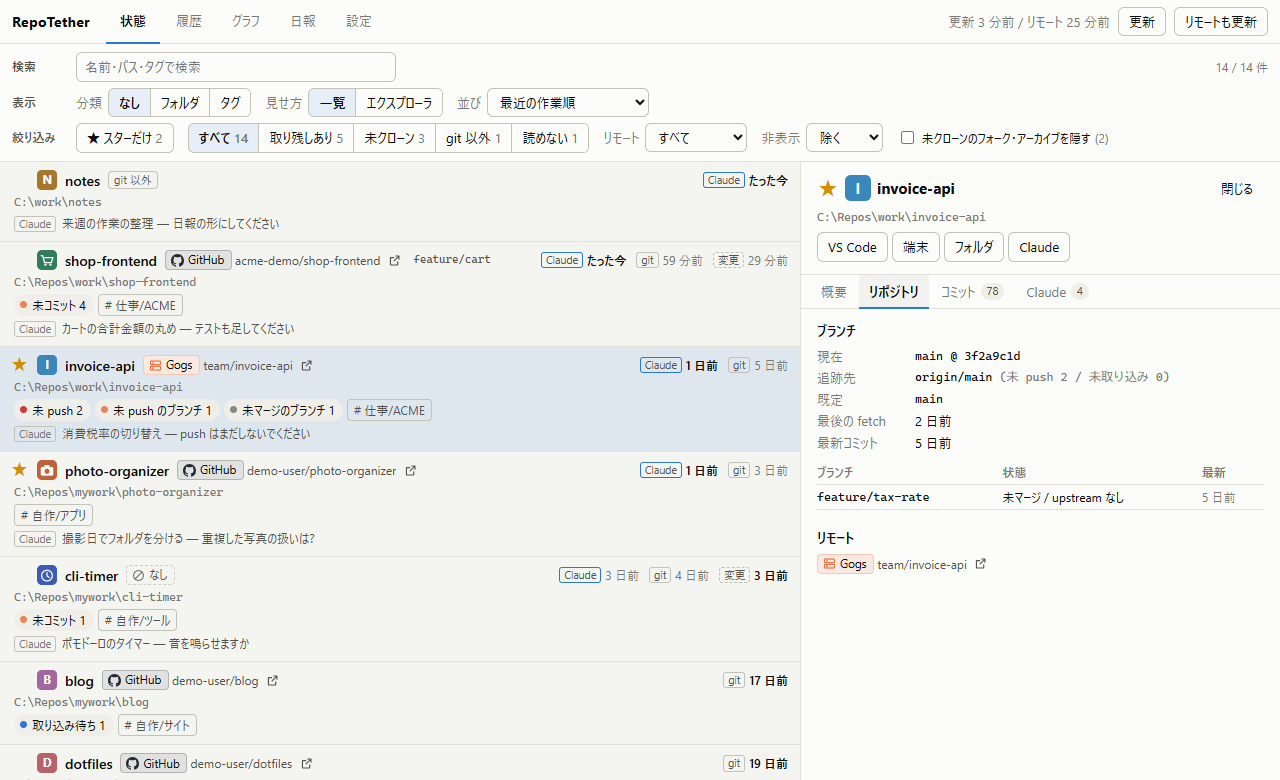
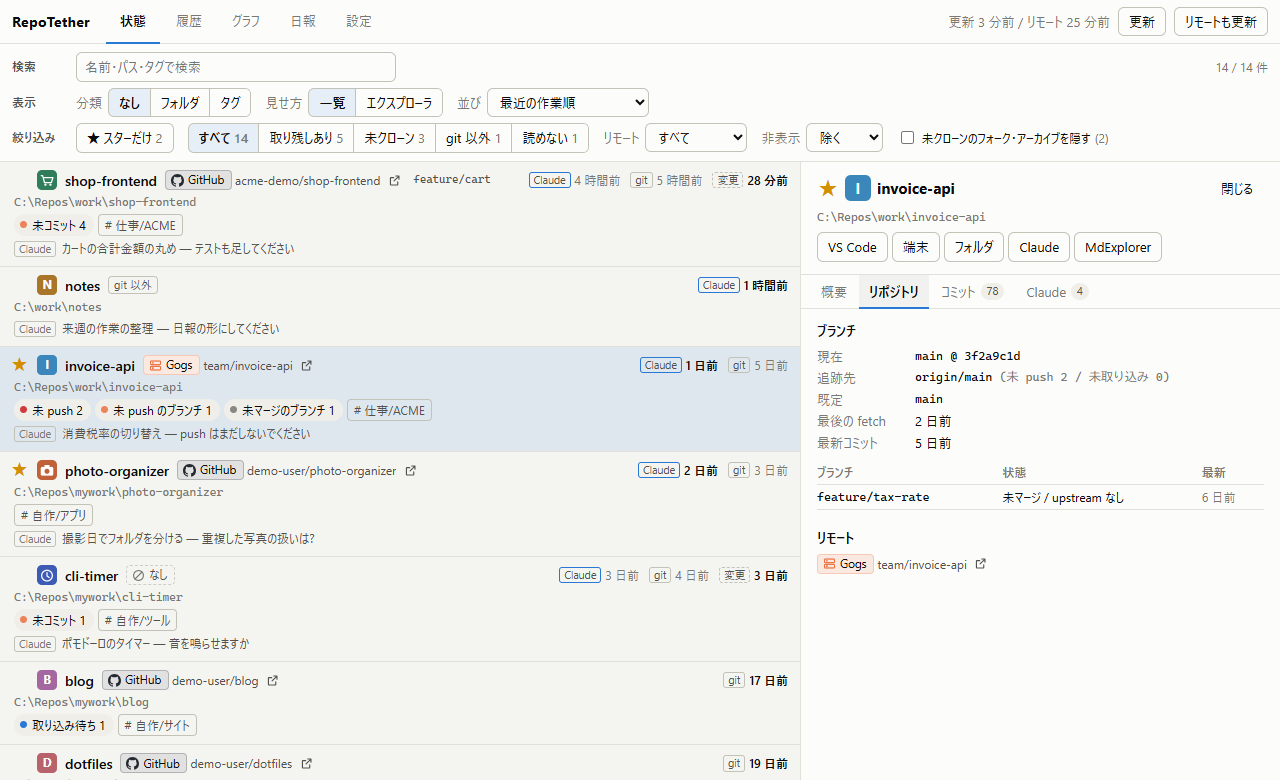
docs: マニュアルの画像を撮り直す (外部ツール・関連ページ・設定の保存)
- デモのデータに外部ツールと関連ページ (架空のサービスとアイコン) を足す
- 「ブラウザ表示」の印を消すスタイルを読み込みのたびに入れる。開発サーバーが起動直後に
  ページを読み込み直すと、最初の何枚かに印が写り込んでいた

diff --git a/src/lib/api.ts b/src/lib/api.ts
@@ -82,6 +82,8 @@ type MockHooks = {
   __mockLockwatchStatus?: LockwatchStatus;
   /** パス → アイコンの URL (data: など) */
   __mockIcons?: Record<string, string>;
+  /** サイト (origin) → 関連ページのアイコンの URL */
+  __mockLinkIcons?: Record<string, string>;
 };
 const hooks = () => (typeof window === "undefined" ? {} : (window as unknown as MockHooks));
 
@@ -448,7 +450,7 @@ export function linkIcon(url: string): Promise<string | null> {
   let p = linkIconCache.get(origin);
   if (!p) {
     p = (async () => {
-      if (!inTauri) return null;
+      if (!inTauri) return hooks().__mockLinkIcons?.[origin] ?? null;
       const bytes = new Uint8Array(await call<ArrayBuffer>("page_icon", { url }));
       const type = bytes.length ? imageType(bytes) : null;
       return type ? URL.createObjectURL(new Blob([bytes], { type })) : null;
